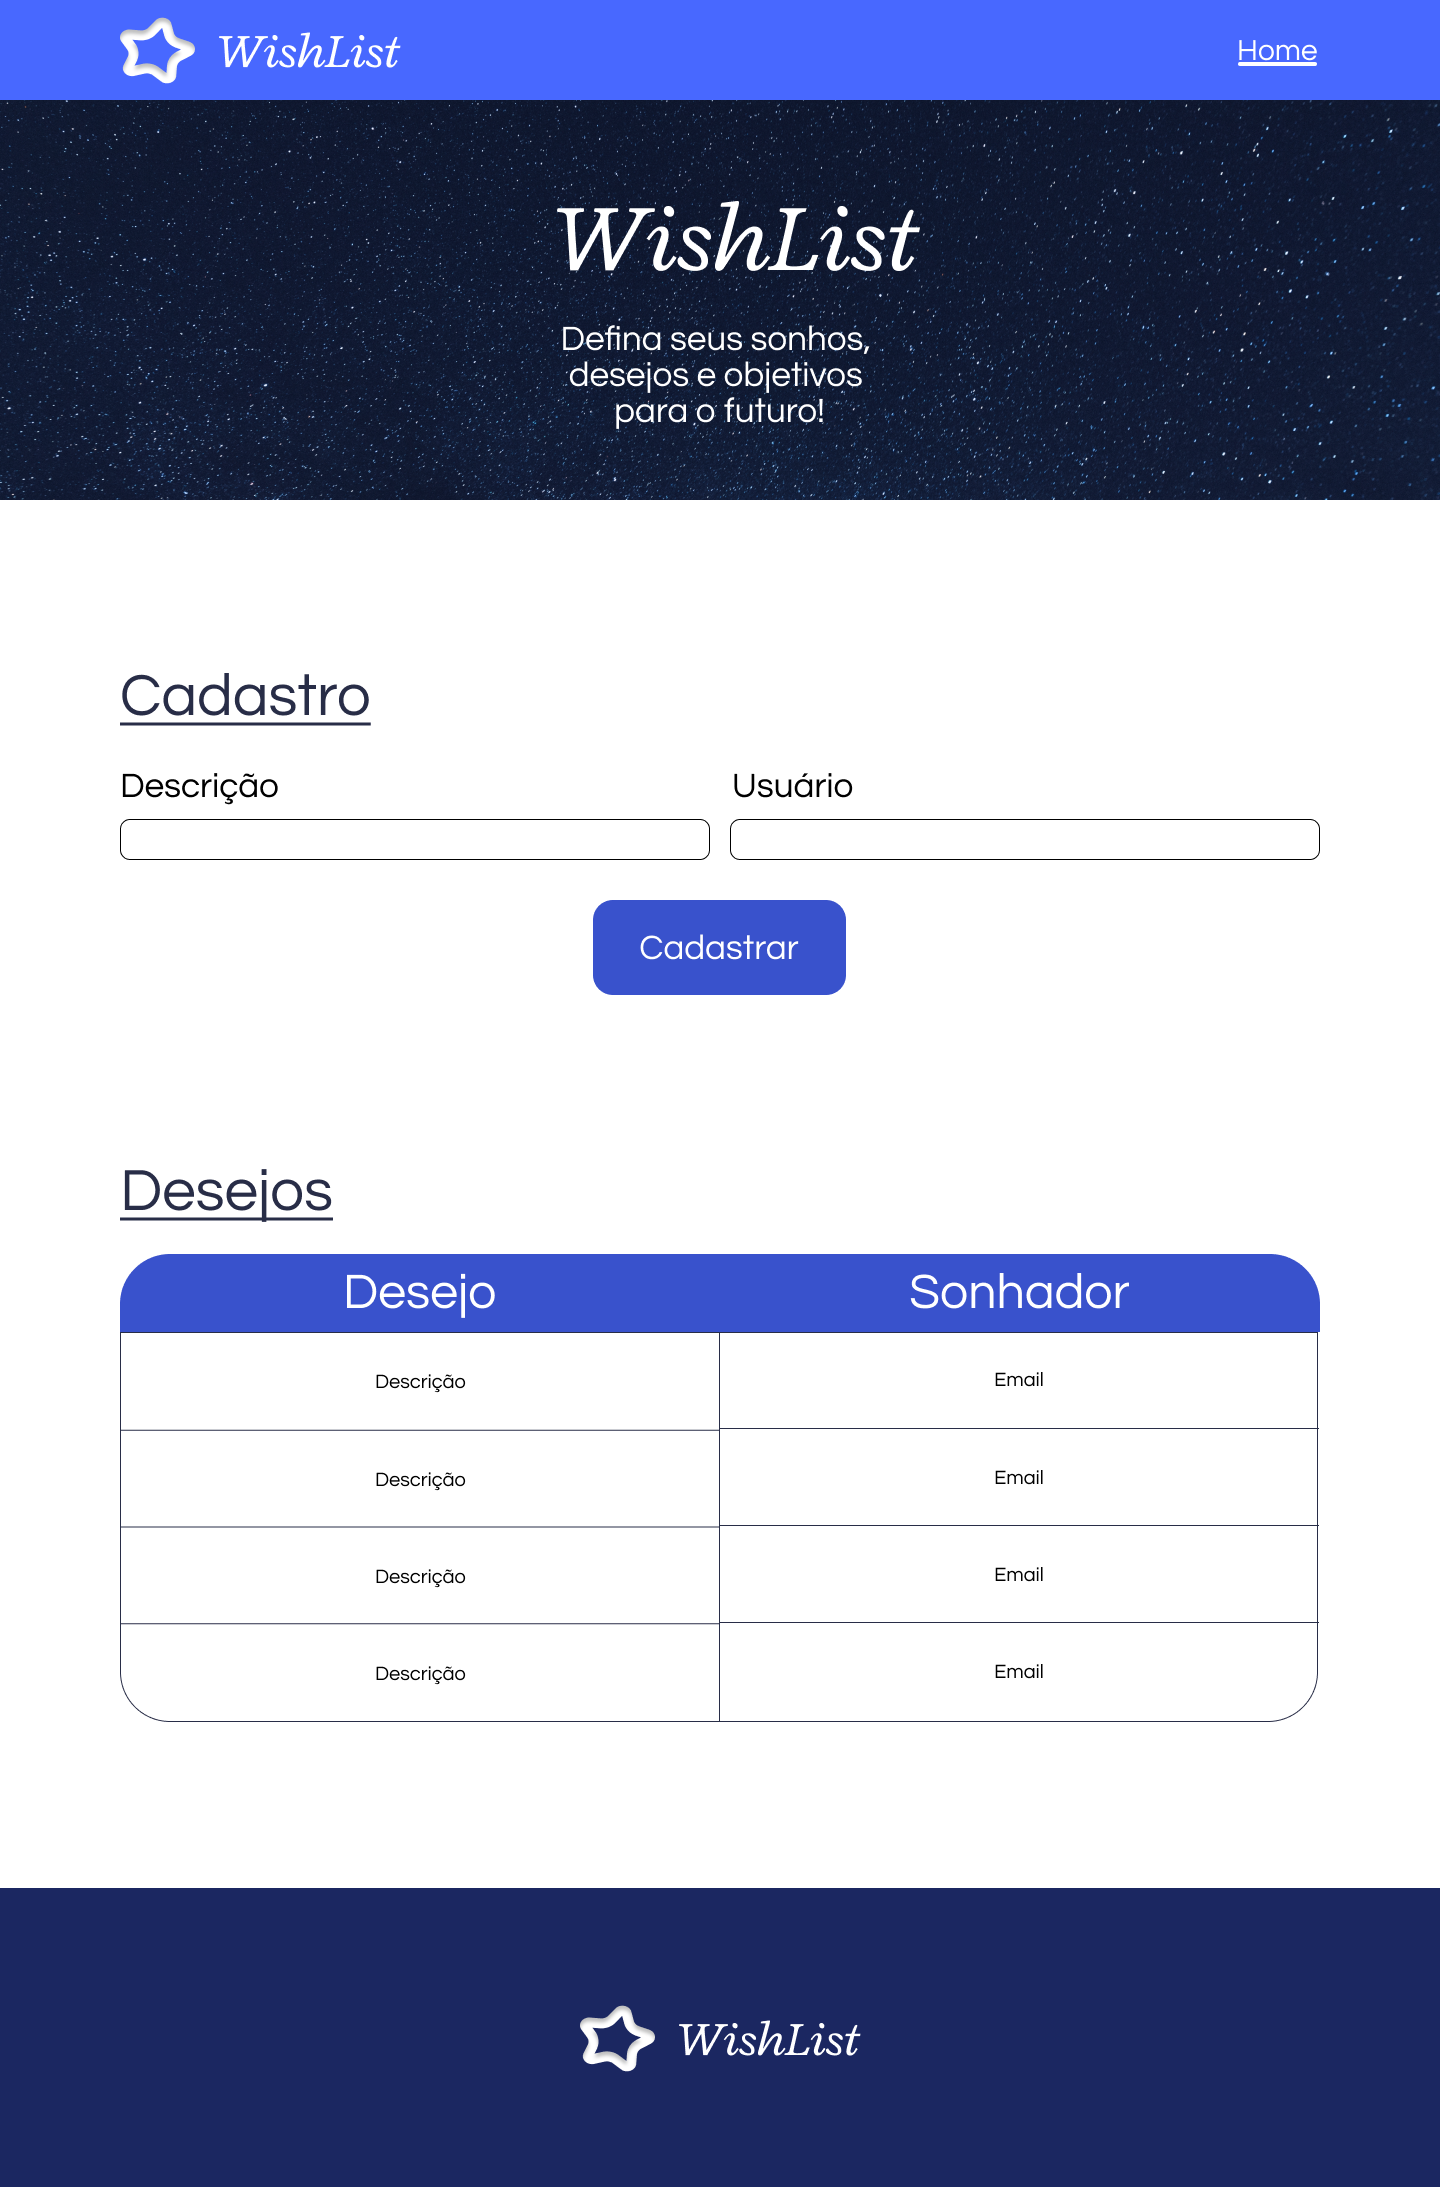
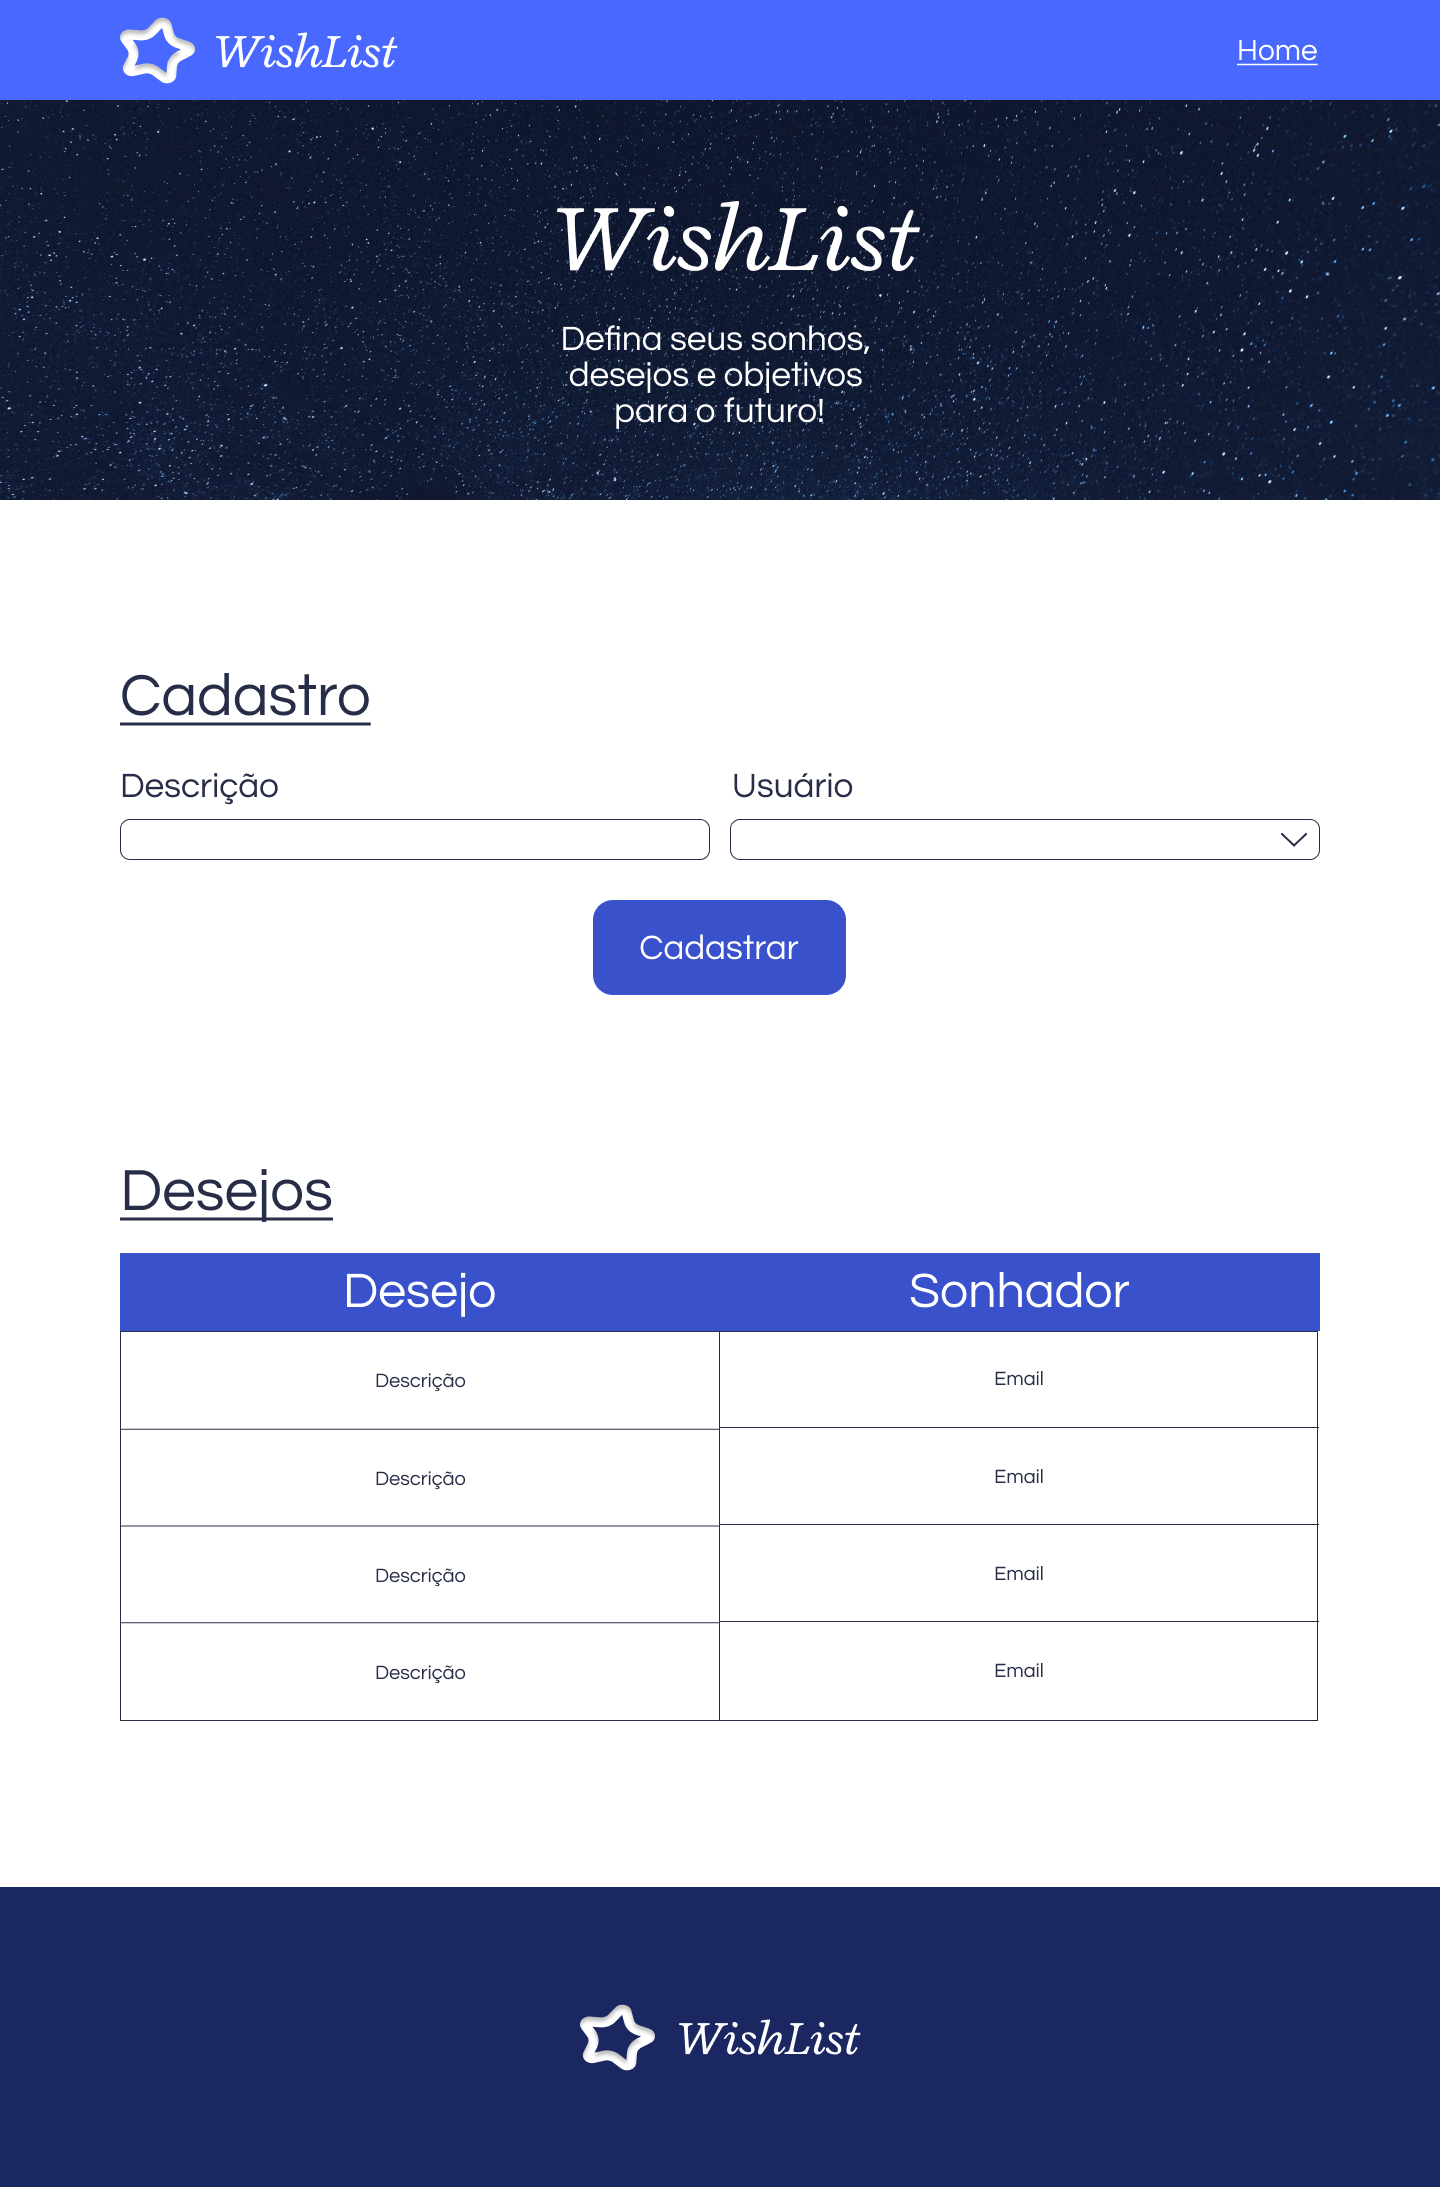
HtmlECss

diff --git a/Layout/HtmlECss/Style.css b/Layout/HtmlECss/Style.css
@@ -1,0 +1,242 @@
+@import url('https://fonts.googleapis.com/css2?family=Questrial&family=Radley:ital@1&display=swap');
+
+*{
+    margin: 0;
+    padding: 0;
+    box-sizing: border-box;
+    word-wrap: normal;
+}
+
+header{
+    height: 100px;
+    background-color: #4868FF;
+    position: fixed;
+    width: 100%;
+    z-index: 99;
+    top: 0;
+}
+
+.ContainerGrid{
+    width: 1200px;
+    margin: 0 auto;
+}
+
+main{
+    margin-top: 100px;
+}
+
+.ContainerHeader{
+    height: 100%;
+    display: flex;
+    justify-content: space-between;
+    align-items: center;
+}
+
+.Logotipo{
+    height: 100%;
+    display: flex;
+    align-items: center;
+}
+
+.Logotipo img{
+    width: 75px;
+    height: 75px;
+    margin-right: 20px;
+}
+
+.Logotipo span{
+    font-family: 'Radley', serif;
+    font-style: italic;
+    color: white;
+    font-weight: 400;
+    font-size: 50px;
+}
+
+.ContainerHeader nav{
+    display: flex;
+    justify-content: space-between;
+    align-items: center;
+}
+
+.ContainerHeader nav a{
+    font-family: 'Questrial', sans-serif;
+    color: white;
+    font-weight: 400;
+    font-size: 30px;
+    text-decoration-line: underline;
+}
+
+.Banner{
+    background: linear-gradient(0deg, rgba(72, 104, 255, 0.1), rgba(72, 104, 255, 0.1)), url(assets_/the-beautiful-shining-stars-in-the-night-sky.jpg);
+    background-size: cover;
+    height: 400px;
+    margin-bottom: 150px;
+}
+
+.ContainerBanner{
+    display: flex;
+    height: 100%;
+    flex-direction: column;
+    justify-content: space-evenly;
+    align-items: center;
+    color: white;
+}
+
+.ContainerBanner h1{
+    font-family: 'Radley', serif;
+    font-style: italic;
+    color: white;
+    font-weight: 400;
+    font-size: 100px;
+}
+
+.ContainerBanner span{
+    font-family: 'Questrial', sans-serif;
+    color: white;
+    font-weight: 400;
+    font-size: 35px;
+    width: 320px;
+    text-align: center;
+}
+
+.Cadastro{
+    height: 330px;
+    margin-bottom: 150px;
+}
+
+.ContainerCadastro{
+    height: 100%;
+    display: flex;
+    flex-direction: column;
+    justify-content: space-between;
+    align-items: flex-start;
+}
+
+.ContainerCadastro h2{
+    color: #282D47;
+    font-size: 60px;
+    text-decoration-line: underline;
+    font-family: 'Questrial', sans-serif;
+    font-weight: 400;
+}
+
+.ContainerCadastro form{
+    display: flex;
+    flex-direction: column;
+    justify-content: space-between;
+    align-items: center;
+    width: 100%;
+    height: 230px;
+}
+
+.CamposFormulario{
+    width: 100%;
+    display: flex;
+    justify-content: space-between;
+    align-items: center;
+}
+
+.CampoFormCadastro{
+    display: flex;
+    flex-direction: column;
+    align-items: flex-start;
+}
+
+.CampoFormCadastro label{
+    color: #282D47;
+    font-family: 'Questrial', sans-serif;
+    font-weight: 400;
+    font-size: 35px;
+}
+
+.CampoFormCadastro input{
+    width: 590px;
+    height: 41px;
+    border-radius: 10px;
+    border: 1px solid #282D47;
+    color: #282D47;
+    font-family: 'Questrial', sans-serif;
+    font-weight: 400;
+    font-size: 20px;
+}
+
+.CampoFormCadastro select{
+    width: 590px;
+    height: 41px;
+    border-radius: 10px;
+    border: 1px solid #282D47;
+}
+
+.FormSubmit{
+    padding: 30px;
+    background-color: #3952CC;
+    color: white;
+    font-family: 'Questrial', sans-serif;
+    font-weight: 400;
+    font-size: 35px;
+    border: none;
+    border-radius: 20px;
+}
+
+.Lista{
+    margin-bottom: 150px;
+}
+
+.ContainerLista{
+    display: flex;
+    flex-direction: column;
+    align-items: flex-start;
+    justify-content: space-between;
+}
+
+.ContainerLista h2{
+    color: #282D47;
+    font-size: 60px;
+    text-decoration-line: underline;
+    font-family: 'Questrial', sans-serif;
+    font-weight: 400;
+    margin-bottom: 30px;
+}
+
+.ContainerLista table{
+    width: 100%;
+    text-align: center;
+    overflow:hidden;
+    border-collapse: collapse;
+    border: 1px solid #282D47;
+    text-align: center;
+}
+
+.ContainerLista th{
+    height: 78px;
+    background-color: #3952CC;
+    text-align: center;
+    padding: 5px;
+    font-family: 'Questrial', sans-serif;
+    font-weight: 400;
+    color: white;
+    font-size: 50px;
+    width: 600px;
+}
+
+.ContainerLista td{
+    color: #282D47;
+    font-family: 'Questrial', sans-serif;
+    font-weight: 400;
+    font-size: 20px;
+    padding: 25px;
+    text-align: center;
+    border: 1px solid #282D47;
+}
+
+footer{
+    background-color: #1B2761;
+    height: 300px;
+}
+
+.ContainerFooter{
+    height: 100%;
+    display: flex;
+    align-items: center;
+    justify-content: center;
+}

diff --git a/Layout/HtmlECss/Index.html b/Layout/HtmlECss/Index.html
@@ -1,0 +1,100 @@
+<html lang="pt-br">
+
+<head>
+    <meta charset="UTF-8">
+    <meta http-equiv="X-UA-Compatible" content="IE=edge">
+    <meta name="viewport" content="width=device-width, initial-scale=1.0">
+    <link rel="stylesheet" href="Style.css" />
+    <title>WishList</title>
+</head>
+
+<body>
+    <header>
+        <div class="ContainerGrid ContainerHeader">
+            <div class="Logotipo">
+                <img src="assets_/splotch-solid 1.png" />
+                <span>WishList</span>
+            </div>
+            <nav>
+                <a>Home</a>
+            </nav>
+        </div>
+    </header>
+    <main>
+        <section class="Banner">
+            <div class="ContainerGrid ContainerBanner">
+                <h1>WishList</h1>
+                <span>Defina seus sonhos,
+                    desejos e objetivos
+                    para o futuro!</span>
+            </div>
+        </section>
+        <section class="Cadastro">
+            <div class="ContainerGrid ContainerCadastro">
+                <h2>Cadastro</h2>
+                <form class="FormularioCadastro">
+                    <div class="CamposFormulario">
+                        <div class="CampoFormCadastro">
+                            <label>Descrição</label>
+                            <input type="text" />
+                        </div>
+                        <div class="CampoFormCadastro">
+                            <label>Usuário</label>
+                            <select></select>
+                        </div>
+                    </div>
+                    <button class="FormSubmit" type="submit">Cadastrar</button>
+                </form>
+            </div>
+        </section>
+        <section class="Lista">
+            <div class="ContainerLista ContainerGrid">
+                <h2>Desejos</h2>
+                <table>
+                    <thead>
+                        <tr>
+                            <th>Desejo</th>
+                            <th>Sonhador</th>
+                        </tr>
+                    </thead>
+                    <tbody>
+                        <tr>
+                            <td>Descrição</td>
+                            <td>Email</td>
+                        </tr>
+                        <tr>
+                            <td>Descrição</td>
+                            <td>Email</td>
+                        </tr>
+                        <tr>
+                            <td>Descrição</td>
+                            <td>Email</td>
+                        </tr>
+                        <tr>
+                            <td>Descrição</td>
+                            <td>Email</td>
+                        </tr>
+                        <tr>
+                            <td>Descrição</td>
+                            <td>Email</td>
+                        </tr>
+                        <tr>
+                            <td>Descrição</td>
+                            <td>Email</td>
+                        </tr>
+                    </tbody>
+                </table>
+            </div>
+        </section>
+    </main>
+    <footer>
+        <div class="ContainerGrid ContainerFooter">
+            <div class="Logotipo">
+                <span>WishList</span>
+                <img src="assets_/splotch-solid 1.png" />
+            </div>
+        </div>
+    </footer>
+</body>
+
+</html>
